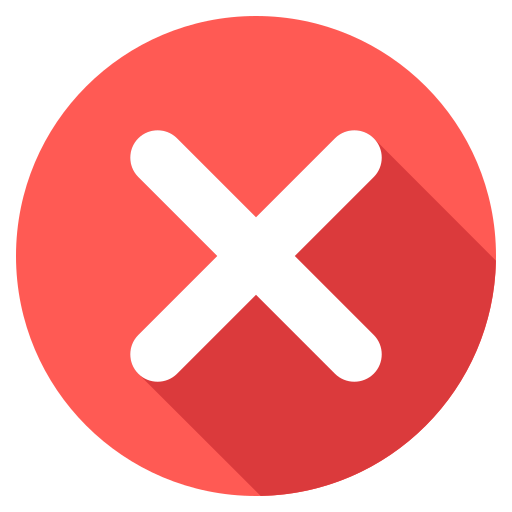
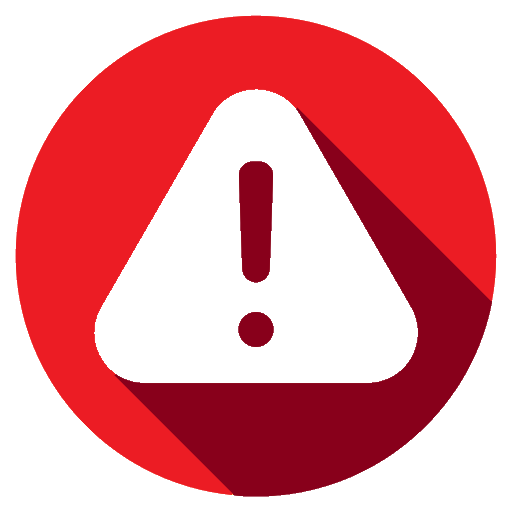
Atualizações Gerais

diff --git a/src/Screens/AlertModal.js b/src/Screens/AlertModal.js
@@ -11,6 +11,8 @@ import {
 import {
   baseGray,
   iceWhite,
+  darkGray,
+  errorRed,
   lightGray,
   cleanWhite,
   transparent,
@@ -27,6 +29,19 @@ export default class emergencyModal extends React.Component {
     this.props.onCancel();
   }
 
+  returnImage = () => {
+    switch (this.props.foto) {
+      case "Male":
+        return require("../../assets/Man.png");
+      case "Female":
+        return require("../../assets/Woman.png");
+      case "ElderlyM":
+        return require("../../assets/ElderlyMan.png");
+      case "ElderlyF":
+        return require("../../assets/ElderlyWoman.png");
+    }
+  };
+
   render() {
     return (
       <Modal
@@ -40,10 +55,36 @@ export default class emergencyModal extends React.Component {
             <View style={styles.horizontalSpaces} />
             <View style={styles.modalCenterMiddle}>
               <View style={styles.menuOverItems}>
-                <Image
-                  source={require("../../assets/Location.png")}
-                  style={{ width: 40, height: 40 }}
-                />
+                <Text> CONFIRMAR ENVIO DE AJUDA </Text>
+                <View style={{ flexDirection: "row", marginVertical: 20 }}>
+                  <Image
+                    source={this.returnImage()}
+                    style={{ width: 60, height: 60 }}
+                  />
+                  <View>
+                    <Text style={{ color: darkGray, fontWeight: "bold" }}>
+                      {this.props.nome}
+                    </Text>
+                    <Text style={{ color: baseGray, fontWeight: "bold" }}>
+                      Idade: {this.props.idade}
+                    </Text>
+                    <Text style={{ color: baseGray, fontWeight: "bold" }}>
+                      {this.props.genero}
+                    </Text>
+                  </View>
+                </View>
+                <View
+                  style={{ justifyContent: "center", alignItems: "center" }}
+                >
+                  <Image
+                    source={require("../../assets/Location.png")}
+                    style={{ width: 140, height: 53, marginBottom: 20 }}
+                  />
+
+                  <Text>{this.props.address}</Text>
+                  <Text>{this.props.cec}</Text>
+                  <Text>{this.props.zipcode}</Text>
+                </View>
               </View>
               <View style={styles.menuOverButton}>
                 <TouchableOpacity
@@ -68,10 +109,15 @@ export default class emergencyModal extends React.Component {
                   style={styles.confirmButton}
                   onPress={() => this.closeModal()}
                 >
-                  <Text style={styles.confirmButtonText}>Confirmar</Text>
+                  <Text style={styles.confirmButtonText}> Confirmar </Text>
                   <Image
                     source={require("../../assets/SeguirWhite.png")}
-                    style={{ width: 40, height: 40 }}
+                    style={{
+                      width: 40,
+                      height: 40,
+                      marginRight: 20,
+                      marginLeft: 10,
+                    }}
                   />
                 </TouchableOpacity>
               </View>
@@ -113,7 +159,7 @@ const styles = StyleSheet.create({
     marginTop: 15,
     width: "90%",
     alignItems: "center",
-    justifyContent: "space-between",
+    justifyContent: "center",
     backgroundColor: iceWhite,
     borderRadius: 10,
   },
@@ -129,9 +175,9 @@ const styles = StyleSheet.create({
     width: 200,
     height: 40,
     alignItems: "center",
-    justifyContent: "center",
+    justifyContent: "flex-end",
     borderRadius: 10,
-    backgroundColor: baseGray,
+    backgroundColor: errorRed,
     flexDirection: "row",
   },
   confirmButtonText: {

diff --git a/src/Database/Patients.js b/src/Database/Patients.js
@@ -5,7 +5,9 @@ export const patientArray = [
     photo: "Male",
     gender: "Masculino",
     rule: 1,
-    address: "",
+    address: "Rua Castelo Branco - N° 1088",
+    cec: "São Pedro do Sul - MG - Brasil",
+    zipcode: "35504-132",
     patientData: [
       94, 94, 94, 95, 95, 95, 96, 96, 95, 96, 96, 96, 97, 96, 96, 96, 97, 97,
       97, 96, 95, 96, 96, 99, 97, 96, 96, 96, 97, 96, 95, 95, 95, 95, 95, 95,
@@ -98,7 +100,9 @@ export const patientArray = [
     photo: "Female",
     gender: "Feminino",
     rule: 1,
-    address: "",
+    address: "Avenida Pereira Machado - N° 872",
+    cec: "Janeiro Alegre - MG - Brasil",
+    zipcode: "39578-546",
     patientData: [
       99, 98, 99, 99, 99, 101, 102, 101, 100, 101, 101, 102, 102, 122, 127, 137,
       135, 138, 157, 159, 165, 165, 171, 171, 178, 177, 173, 172, 172, 171, 171,
@@ -112,7 +116,7 @@ export const patientArray = [
       101, 102, 103, 103, 103, 103, 103, 103, 103, 103, 103, 103, 103, 103, 104,
       104, 103, 103, 103, 103, 103, 103, 102, 101, 100, 101, 100, 99, 99, 98,
       98, 97, 97, 96, 93, 92, 92, 91, 91, 90, 88, 88, 88, 87, 85, 85, 84, 84,
-      84, 84, 84, 84, 85, 85, 85, 85, 84, 85, 85, 85, 85, 85, 85, 86, 88, 86,
+      84, 84, 84, 84, 85, 85, 85, 85, 84, 85, 85, 85, 86, 85, 86, 86, 88, 86,
       86, 86, 86,
     ],
   },
@@ -122,7 +126,9 @@ export const patientArray = [
     photo: "ElderlyF",
     gender: "Feminino",
     rule: 2,
-    address: "",
+    address: "Rua Castelo Branco - N° 1025",
+    cec: "São Pedro do Sul - MG - Brasil",
+    zipcode: "35504-132",
     patientData: [0],
     //patientData: [61, 95, 122, 130, 189, 181, 125, 123, 101, 91, 70, 78],
   },

diff --git a/src/Screens/HealthScreen.js b/src/Screens/HealthScreen.js
@@ -48,6 +48,9 @@ export default function HealthScreen(props) {
   const [idade, setidade] = useState("");
   const [genero, setGenero] = useState("");
   const [foto, setFoto] = useState("Male");
+  const [address, setAddress] = useState("");
+  const [cec, setCec] = useState("");
+  const [zipcode, setZipcode] = useState("");
 
   const [showModal, setShowModal] = useState(false);
 
@@ -66,6 +69,9 @@ export default function HealthScreen(props) {
     setidade(patientData.age);
     setGenero(patientData.gender);
     setFoto(patientData.photo);
+    setAddress(patientData.address);
+    setCec(patientData.cec);
+    setZipcode(patientData.zipcode);
   }
 
   function getHealthData(iteration) {
@@ -268,6 +274,13 @@ export default function HealthScreen(props) {
     <SafeAreaView style={styles.Container}>
       <AlertModal
         isVisible={showModal}
+        nome={nome}
+        idade={idade}
+        genero={genero}
+        address={address}
+        cec={cec}
+        zipcode={zipcode}
+        foto={foto}
         onCancel={() => onCancelPremiumModal()}
       />
 
